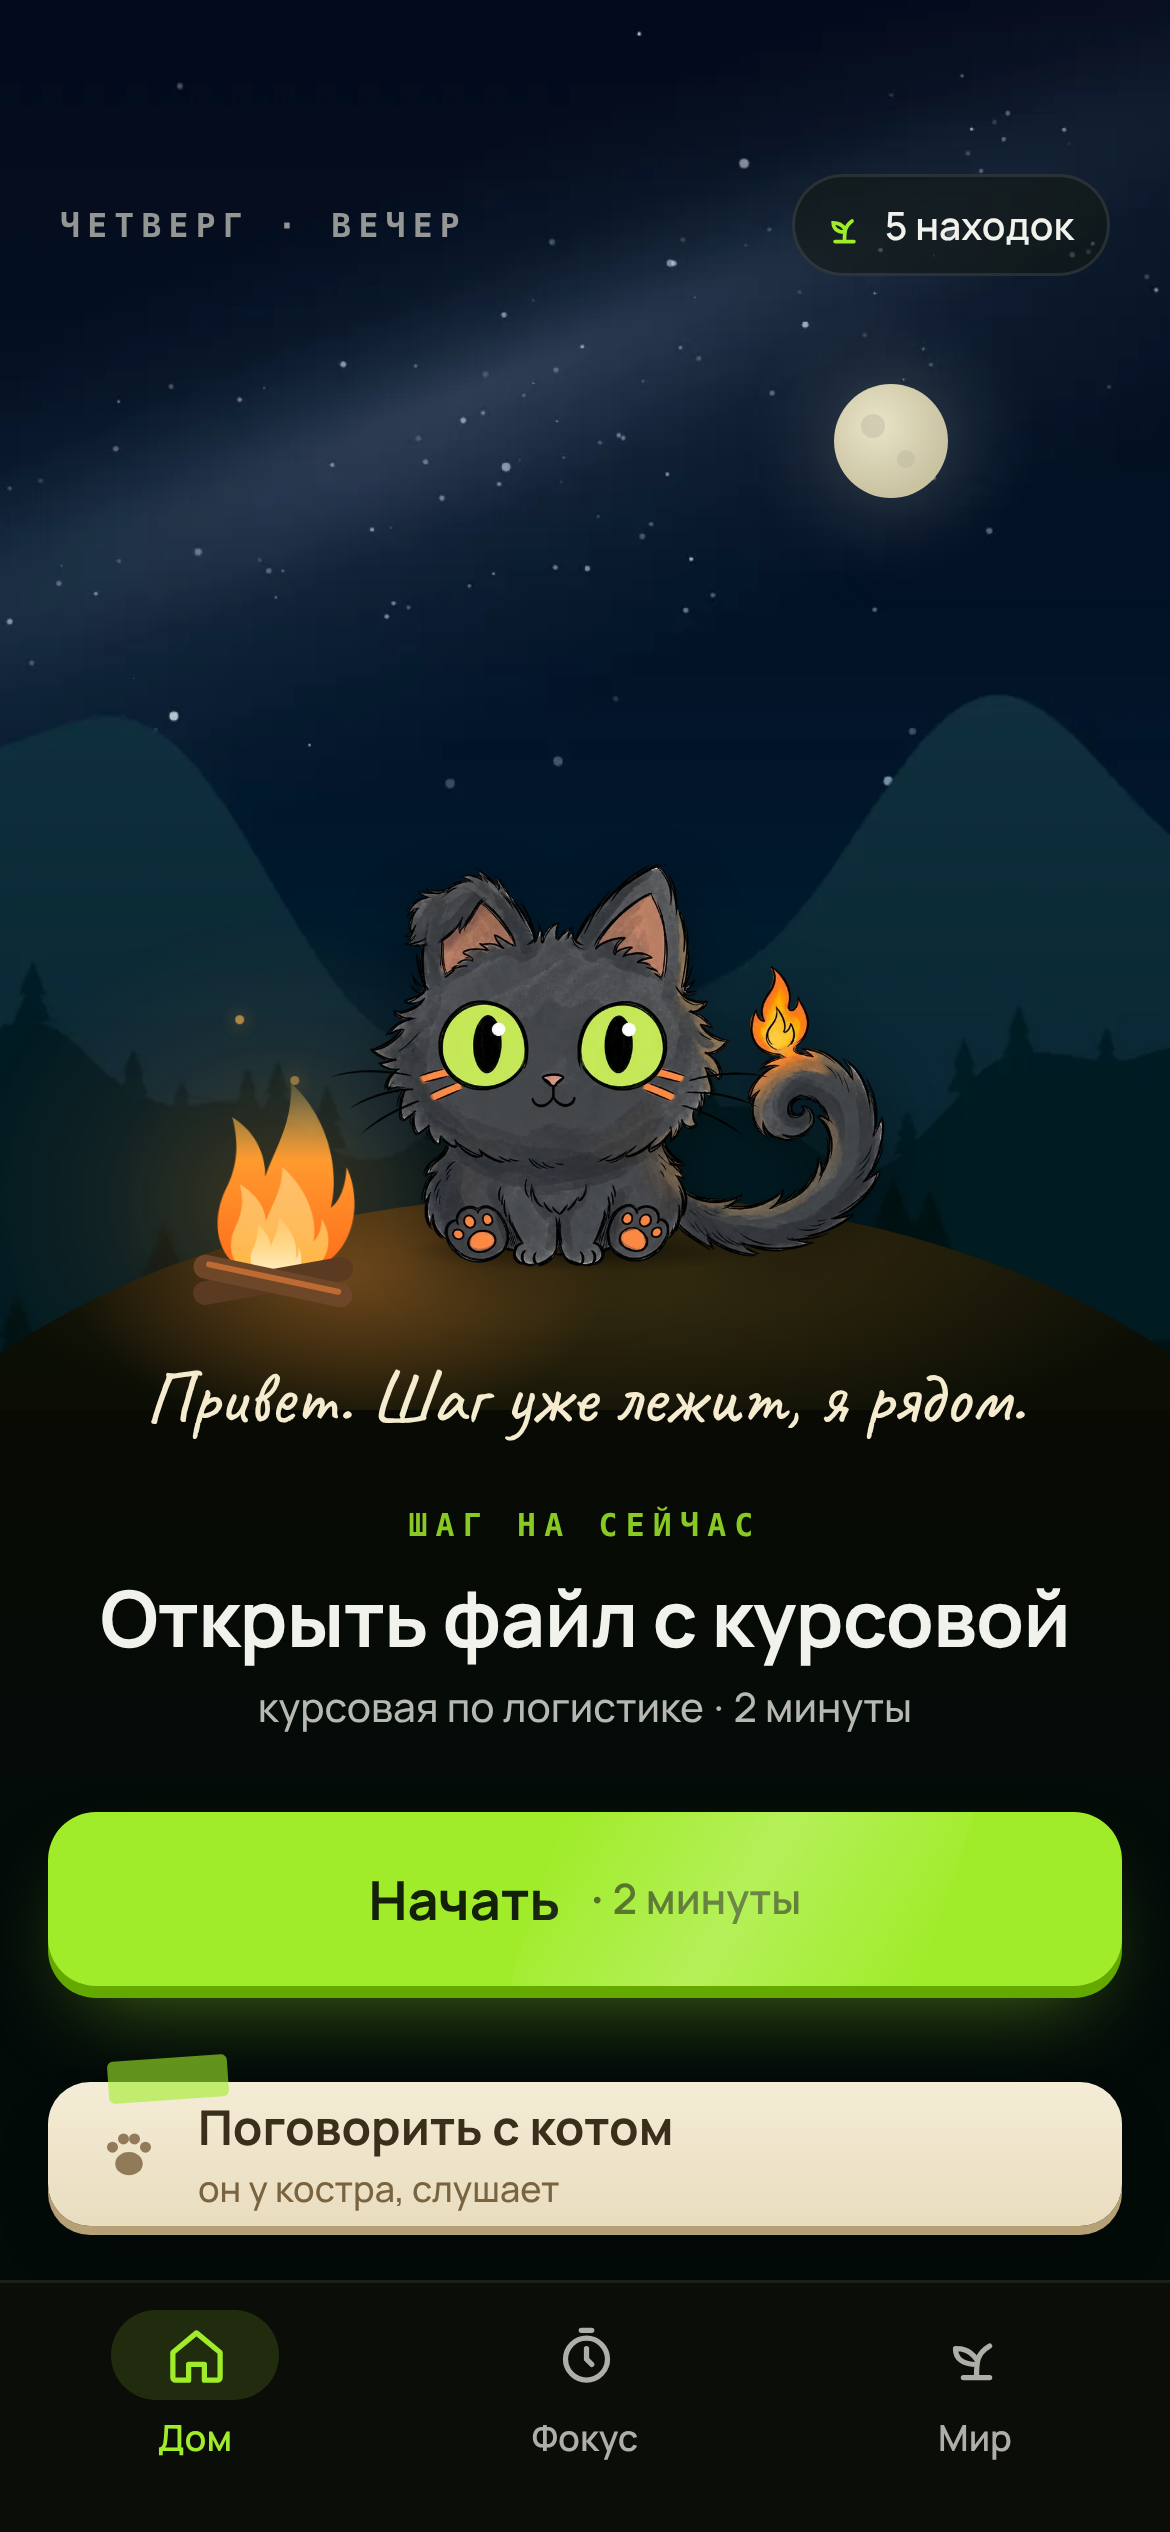
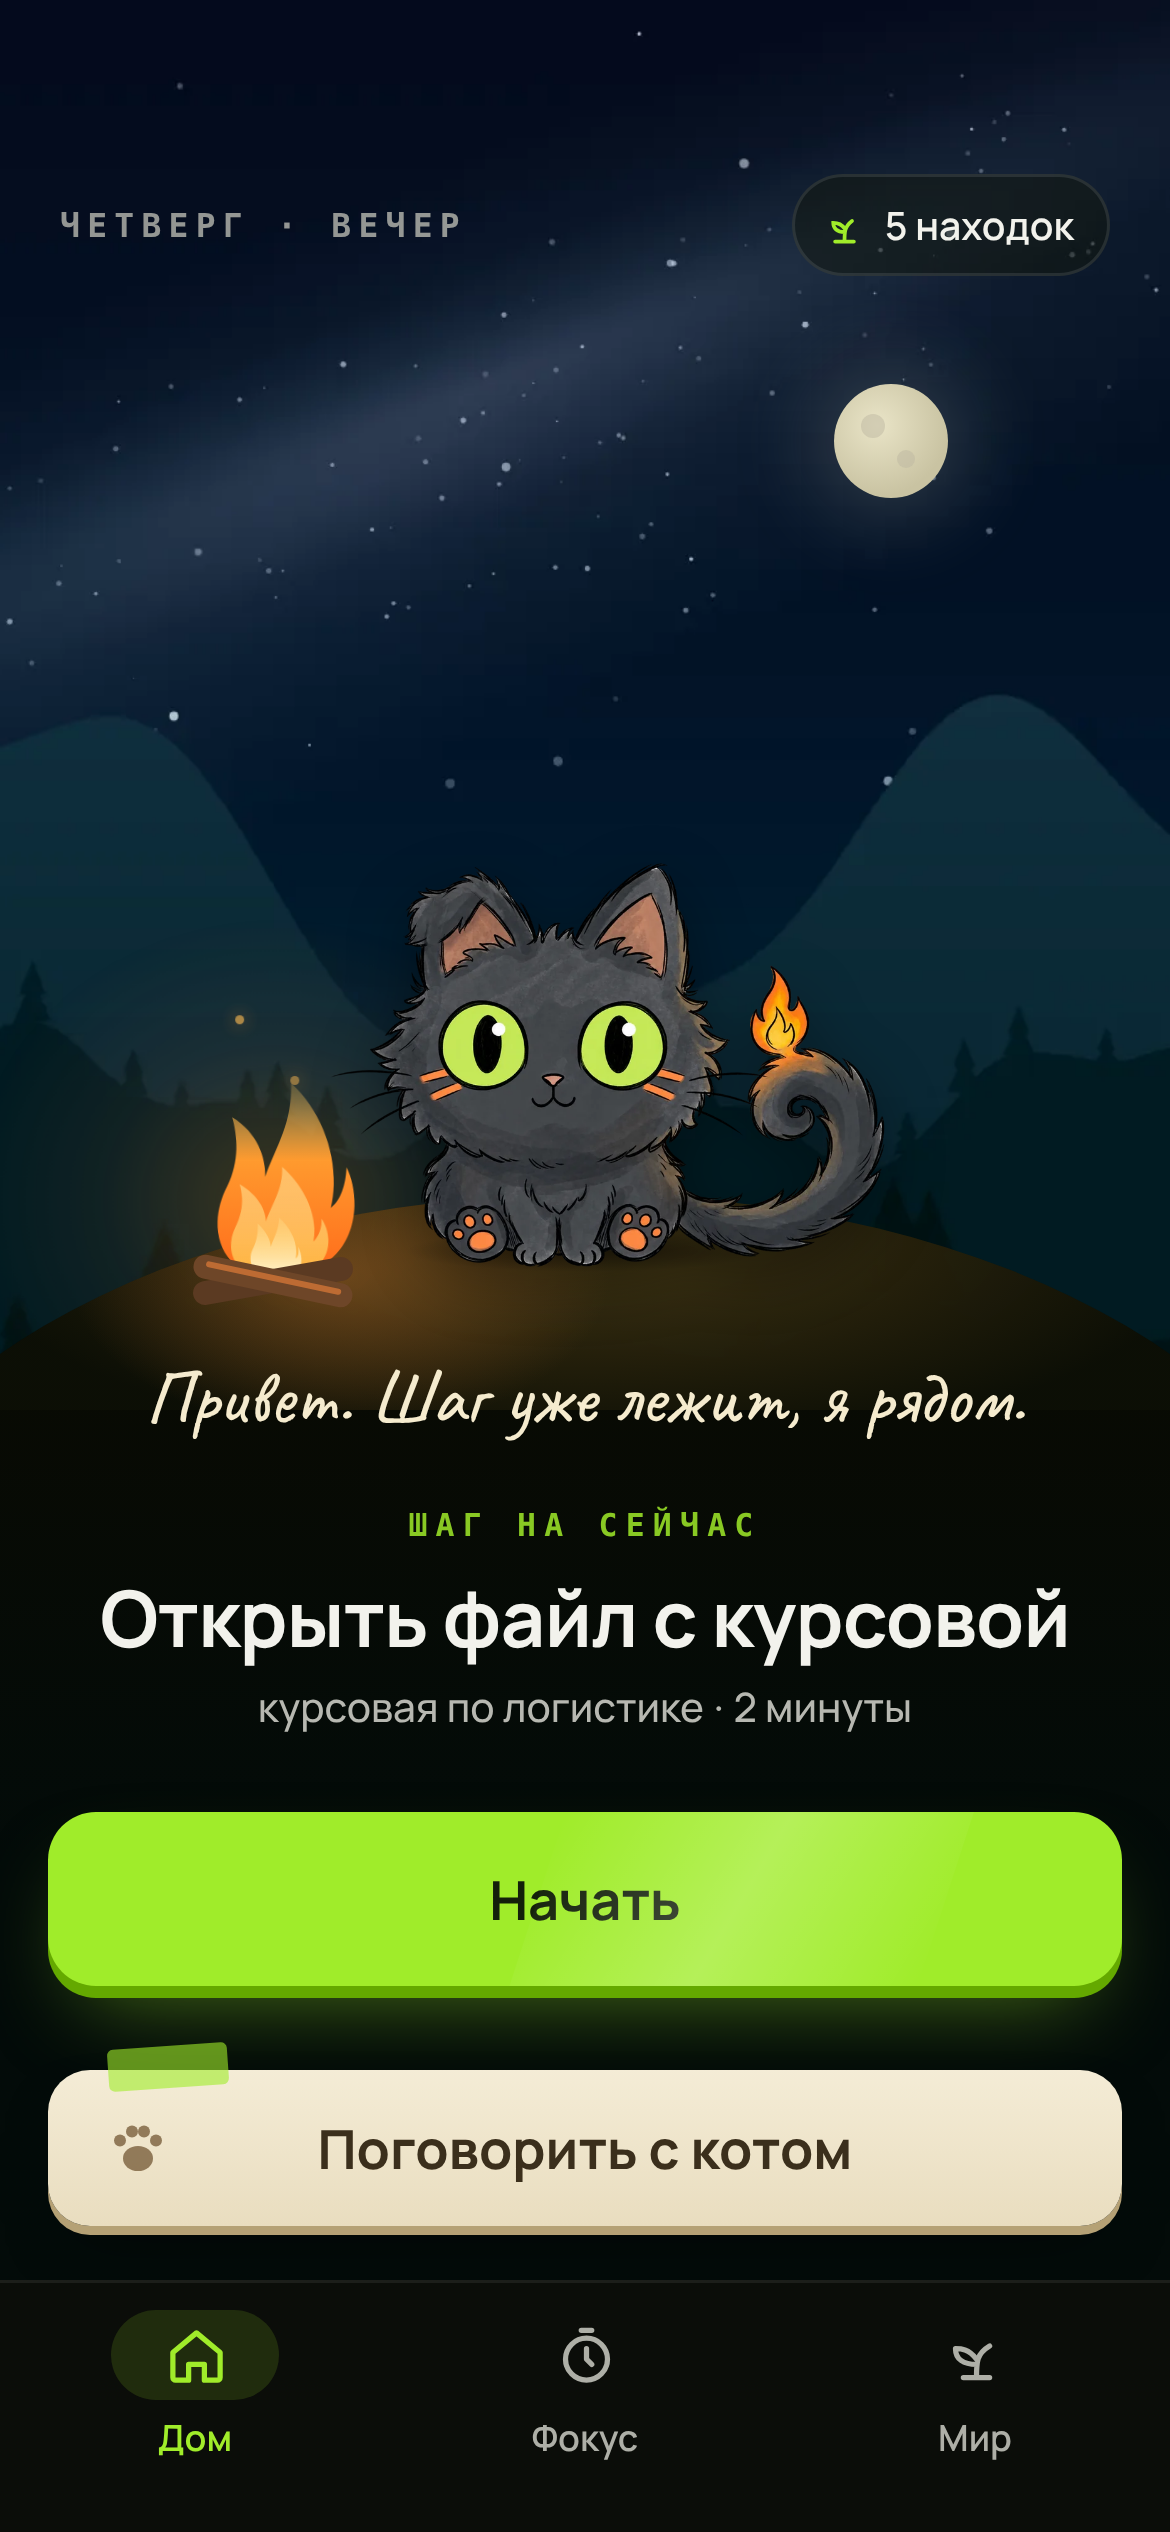
Research: home mockup D, centered chat label, plain Start button
Claude-Session: https://claude.ai/code/session_01XV6HFA1QfyNVAhdu71AC7d

Changed region(s): [[0.0308, 0.78, 0.9538, 0.8736], [0.3077, 0.7488, 0.6154, 0.78], [0.6462, 0.7488, 0.6769, 0.78]]

diff --git a/research/22-chat-and-home/mockups/home-D.html b/research/22-chat-and-home/mockups/home-D.html
@@ -58,7 +58,7 @@ html,body{width:390px;height:844px;overflow:hidden;background:#020a08;font-famil
 .nav i{display:grid;place-items:center;width:56px;height:30px;border-radius:999px}
 .nav svg{width:21px;height:21px;fill:none;stroke:currentColor;stroke-width:2;stroke-linecap:round;stroke-linejoin:round}
 /* === кнопки чата: три варианта === */
-.chat{position:absolute;left:16px;right:16px;top:694px;height:48px}
+.chat{position:absolute;left:16px;right:16px;top:690px;height:52px}
 /* A: реплика с ушками — капсула-пузырь, ушки кота выглядывают из-за верхнего края */
 .vA .chat{border-radius:23px;background:oklch(0.23 0.015 130/.92);border:1px solid oklch(1 0 0/.12);box-shadow:0 3px 0 oklch(0.13 0.01 130),inset 0 1px 0 oklch(1 0 0/.06);display:flex;align-items:center;padding:0 6px 0 16px;gap:10px}
 .vA .ears{position:absolute;left:22px;top:-15px;width:52px;height:18px}
@@ -86,9 +86,9 @@ html,body{width:390px;height:844px;overflow:hidden;background:#020a08;font-famil
 .vD .chat{border-radius:14px;background:linear-gradient(#f4ecd6,#e9ddbf);box-shadow:0 3px 0 #b5a175,0 10px 22px -10px rgb(0 0 0/.6);display:flex;align-items:center;gap:12px;padding:0 16px;color:#3b2f1c;transition:transform 110ms,box-shadow 110ms}
 .vD .chat::before{content:"";position:absolute;left:20px;top:-8px;width:40px;height:14px;background:oklch(0.86 0.22 130/.6);transform:rotate(-4deg);border-radius:2px}
 .vD.pressed .chat{transform:translateY(3px);box-shadow:0 0 0 #b5a175,0 6px 14px -10px rgb(0 0 0/.6)}
-.vD .txt{flex:1;font:700 16px Manrope;color:#3b2f1c}
+.vD .txt{flex:1;text-align:center;font:700 18px Manrope;color:#3b2f1c}
 .vD .txt b{display:block;font:500 12px Manrope;color:#7a6440;margin-top:1px}
-.vD .paw{width:22px;height:22px;opacity:.7}
+.vD .paw{position:absolute;left:18px;top:50%;transform:translateY(-50%);width:24px;height:24px;opacity:.7}
 </style></head><body><div class="screen vD">
 <div class="sky"></div><div class="moon"></div>
 <div class="glow"></div>
@@ -117,8 +117,8 @@ html,body{width:390px;height:844px;overflow:hidden;background:#020a08;font-famil
 </div>
 <div class="say">Привет. Шаг уже лежит, я рядом.</div>
 <div class="step"><div class="label">ШАГ НА СЕЙЧАС</div><div class="title">Открыть файл с курсовой</div><div class="task">курсовая по логистике · 2 минуты</div></div>
-<div class="cta">Начать <small>· 2 минуты</small></div>
-<div class="chat"><svg class="paw" viewBox="0 0 24 24" fill="#6b4e2a"><ellipse cx="12" cy="15.5" rx="5" ry="4.2"/><circle cx="6" cy="9.5" r="2"/><circle cx="10" cy="6.5" r="2"/><circle cx="14" cy="6.5" r="2"/><circle cx="18" cy="9.5" r="2"/></svg><span class="txt">Поговорить с котом<b>он у костра, слушает</b></span></div>
+<div class="cta">Начать</div>
+<div class="chat"><svg class="paw" viewBox="0 0 24 24" fill="#6b4e2a"><ellipse cx="12" cy="15.5" rx="5" ry="4.2"/><circle cx="6" cy="9.5" r="2"/><circle cx="10" cy="6.5" r="2"/><circle cx="14" cy="6.5" r="2"/><circle cx="18" cy="9.5" r="2"/></svg><span class="txt">Поговорить с котом</span></div>
 <div class="nav">
  <div class="on"><i><svg viewBox="0 0 24 24"><path d="M3 10.5 12 3l9 7.5V20a1 1 0 0 1-1 1h-5v-6H9v6H4a1 1 0 0 1-1-1z"/></svg></i>Дом</div>
  <div><i><svg viewBox="0 0 24 24"><circle cx="12" cy="13" r="8"/><path d="M12 9v4l2 2M10 2h4"/></svg></i>Фокус</div>
